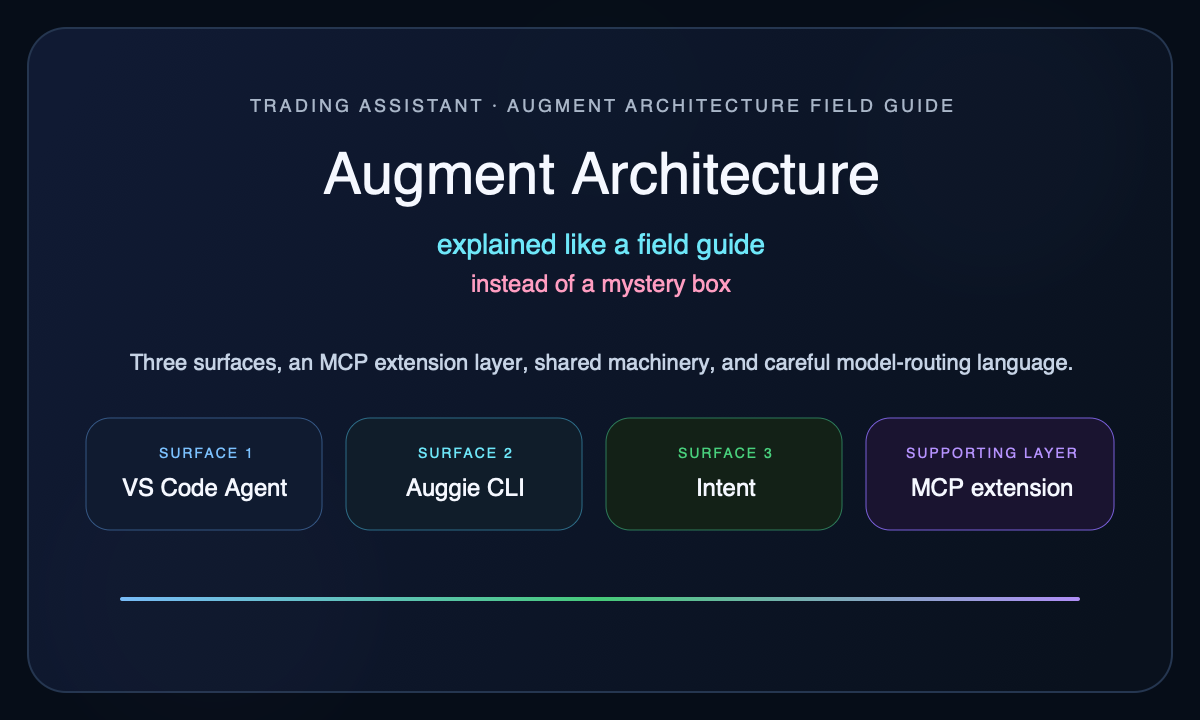
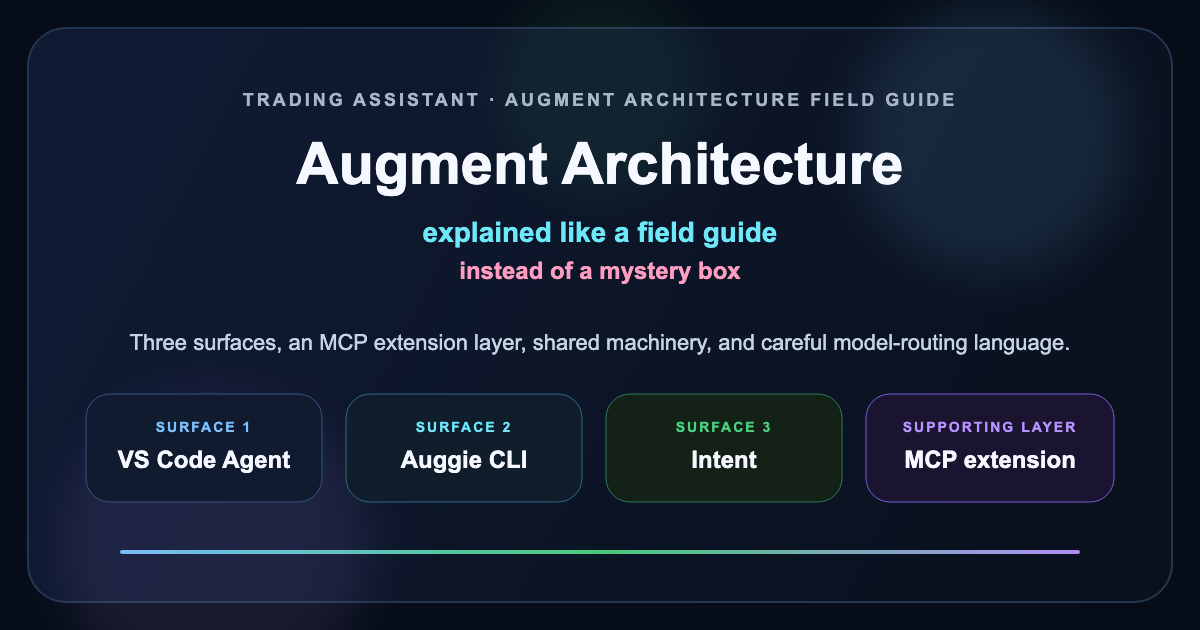
Release verified Wave 48-50 package

diff --git a/404.html b/404.html
@@ -997,12 +997,12 @@
           </div>
         </a>
 
-        <a class="action-card recovery-priority" href="https://github.com/drasticstatic/trading-assistant-public-preview/tree/main/data/inevitrade%20progression" target="_blank" rel="noreferrer">
+        <a class="action-card recovery-priority" href="https://github.com/drasticstatic/trading-assistant-public-preview/tree/main/data/progression/inevitrade" target="_blank" rel="noreferrer">
           <span class="action-icon" aria-hidden="true">🎓</span>
           <div class="action-content">
             <p class="action-title">Inevitrade Progression</p>
             <p class="action-desc">Coaching progression notes and supporting public reference material.</p>
-            <span class="path-chip">data/inevitrade progression/</span>
+            <span class="path-chip">data/progression/inevitrade/</span>
           </div>
         </a>
 
@@ -1043,7 +1043,7 @@
 
         <div><a class="tree-dir" href="https://github.com/drasticstatic/trading-assistant-public-preview/tree/main/data" target="_blank" rel="noreferrer">data/</a> <span class="tree-note">— Public datasets, screenshots, and progression references.</span></div>
         <div class="tree-indent"><a class="tree-leaf" href="https://github.com/drasticstatic/trading-assistant-public-preview/tree/main/data/screenshots" target="_blank" rel="noreferrer">screenshots/</a></div>
-        <div class="tree-indent"><a class="tree-leaf" href="https://github.com/drasticstatic/trading-assistant-public-preview/tree/main/data/inevitrade%20progression" target="_blank" rel="noreferrer">inevitrade progression/</a></div>
+        <div class="tree-indent"><a class="tree-leaf" href="https://github.com/drasticstatic/trading-assistant-public-preview/tree/main/data/progression/inevitrade" target="_blank" rel="noreferrer">progression/inevitrade/</a></div>
         <div class="tree-indent"><a class="tree-leaf" href="https://github.com/drasticstatic/trading-assistant-public-preview/tree/main/data/imports" target="_blank" rel="noreferrer">imports/</a></div>
 
         <div><a class="tree-dir" href="https://github.com/drasticstatic/trading-assistant-public-preview/tree/main/setup" target="_blank" rel="noreferrer">setup/</a> <span class="tree-note">— Public-facing system documentation</span></div>

diff --git a/index.html b/index.html
@@ -729,12 +729,12 @@
           <span class="path-chip">smarttrader-ai/reviews/pattern_tracker.md</span>
         </a>
 
-        <a class="action-card" href="https://github.com/drasticstatic/trading-assistant-public-preview/tree/main/data/inevitrade%20progression" target="_blank" rel="noreferrer">
+        <a class="action-card" href="https://github.com/drasticstatic/trading-assistant-public-preview/tree/main/data/progression/inevitrade" target="_blank" rel="noreferrer">
           <div class="action-topline"><span>Coaching path</span><span>🎓</span></div>
           <span class="action-icon" aria-hidden="true">📘</span>
           <p class="action-title">Inevitrade Progression</p>
           <p class="action-desc">Coaching progression notes and public references.</p>
-          <span class="path-chip">data/inevitrade progression/</span>
+          <span class="path-chip">data/progression/inevitrade/</span>
         </a>
 
         <a class="action-card" href="https://github.com/drasticstatic/trading-assistant-public-preview/tree/main/setup" target="_blank" rel="noreferrer">
@@ -797,7 +797,7 @@
           <div class="tree-indent3"><a class="tree-leaf" href="https://github.com/drasticstatic/trading-assistant-public-preview/tree/main/smarttrader-ai/exports/2026/03-Mar" target="_blank" rel="noreferrer">03-Mar/</a></div>
           <div><a class="tree-dir" href="https://github.com/drasticstatic/trading-assistant-public-preview/tree/main/data" target="_blank" rel="noreferrer">data/</a> <span class="tree-note">— Public references, screenshots, and progression notes.</span></div>
           <div class="tree-indent"><a class="tree-leaf" href="https://github.com/drasticstatic/trading-assistant-public-preview/tree/main/data/screenshots" target="_blank" rel="noreferrer">screenshots/</a></div>
-          <div class="tree-indent"><a class="tree-leaf" href="https://github.com/drasticstatic/trading-assistant-public-preview/tree/main/data/inevitrade%20progression" target="_blank" rel="noreferrer">inevitrade progression/</a></div>
+          <div class="tree-indent"><a class="tree-leaf" href="https://github.com/drasticstatic/trading-assistant-public-preview/tree/main/data/progression/inevitrade" target="_blank" rel="noreferrer">progression/inevitrade/</a></div>
           <div class="tree-indent"><a class="tree-leaf" href="https://github.com/drasticstatic/trading-assistant-public-preview/tree/main/data/imports" target="_blank" rel="noreferrer">imports/</a></div>
           <div><a class="tree-dir" href="https://github.com/drasticstatic/trading-assistant-public-preview/tree/main/setup" target="_blank" rel="noreferrer">setup/</a> <span class="tree-note">— Public system documentation.</span></div>
           <div class="tree-indent"><a class="tree-leaf" href="https://github.com/drasticstatic/trading-assistant-public-preview/blob/main/setup/system-overview.md" target="_blank" rel="noreferrer">system-overview.md</a></div>

diff --git a/404_legacy.html b/404_legacy.html
@@ -447,7 +447,7 @@
       <div class="tree-indent3"><a href="https://github.com/drasticstatic/trading-assistant-public-preview/tree/main/smarttrader-ai/exports/2026/03-Mar" target="_blank">03-Mar/</a> &nbsp;<span style="color:var(--subtle)">— Mar daily reviews</span></div>
       <div><a class="tree-dir" href="https://github.com/drasticstatic/trading-assistant-public-preview/tree/main/data" target="_blank">data/</a></div>
       <div class="tree-indent"><a href="https://github.com/drasticstatic/trading-assistant-public-preview/tree/main/data/screenshots" target="_blank">screenshots/</a> &nbsp;<span style="color:var(--subtle)">— all chart screenshots</span></div>
-      <div class="tree-indent"><a href="https://github.com/drasticstatic/trading-assistant-public-preview/tree/main/data/inevitrade%20progression" target="_blank">inevitrade progression/</a> &nbsp;<span style="color:var(--subtle)">— coaching progression notes</span></div>
+      <div class="tree-indent"><a href="https://github.com/drasticstatic/trading-assistant-public-preview/tree/main/data/progression/inevitrade" target="_blank">progression/inevitrade/</a> &nbsp;<span style="color:var(--subtle)">— coaching progression notes</span></div>
       <div class="tree-indent"><a href="https://github.com/drasticstatic/trading-assistant-public-preview/tree/main/data/exports" target="_blank">exports/</a> &nbsp;<span style="color:var(--subtle)">— TradeZella + Tradovate CSVs</span></div>
       <div><a class="tree-dir" href="https://github.com/drasticstatic/trading-assistant-public-preview/tree/main/setup" target="_blank">setup/</a></div>
       <div class="tree-indent"><a href="https://github.com/drasticstatic/trading-assistant-public-preview/blob/main/setup/system-overview.md" target="_blank">system-overview.md</a> &nbsp;<span style="color:var(--subtle)">— full system architecture</span></div>

diff --git a/setup/AugmentArchitecture.html b/setup/AugmentArchitecture.html
@@ -17,7 +17,7 @@
   <meta property="og:image:secure_url" content="https://drasticstatic.github.io/trading-assistant-public-preview/setup/aug-arch-preview.png?v=20260308-embed2">
   <meta property="og:image:type" content="image/png">
   <meta property="og:image:width" content="1200">
-  <meta property="og:image:height" content="720">
+  <meta property="og:image:height" content="630">
   <meta property="og:image:alt" content="Augment Architecture field guide preview with centered title lines, four surface cards, and a blue-green-purple divider accent.">
   <meta name="twitter:card" content="summary_large_image">
   <meta name="twitter:title" content="Augment Architecture — Field Guide, Not a Mystery Box">

diff --git a/README.md b/README.md
@@ -96,7 +96,9 @@ The most useful public paths live under `smarttrader-ai/analysis`, `smarttrader-
 │   │   └── 2026/
 │   │       ├── 02-Feb/          # TradeZella + Tradovate CSV imports
 │   │       └── 03-Mar/
-│   ├── inevitrade progression/  # Coaching progression notes + public reference material
+│   ├── progression/
+│   │   ├── SmartTradingBlueprint/ # STB progression workspace (currently empty/tracked)
+│   │   └── inevitrade/            # Coaching progression notes + public reference material
 │   └── screenshots/             # Trade screenshots & annotated charts for session review
 ├── logs/                        # session logs
 ├── setup/